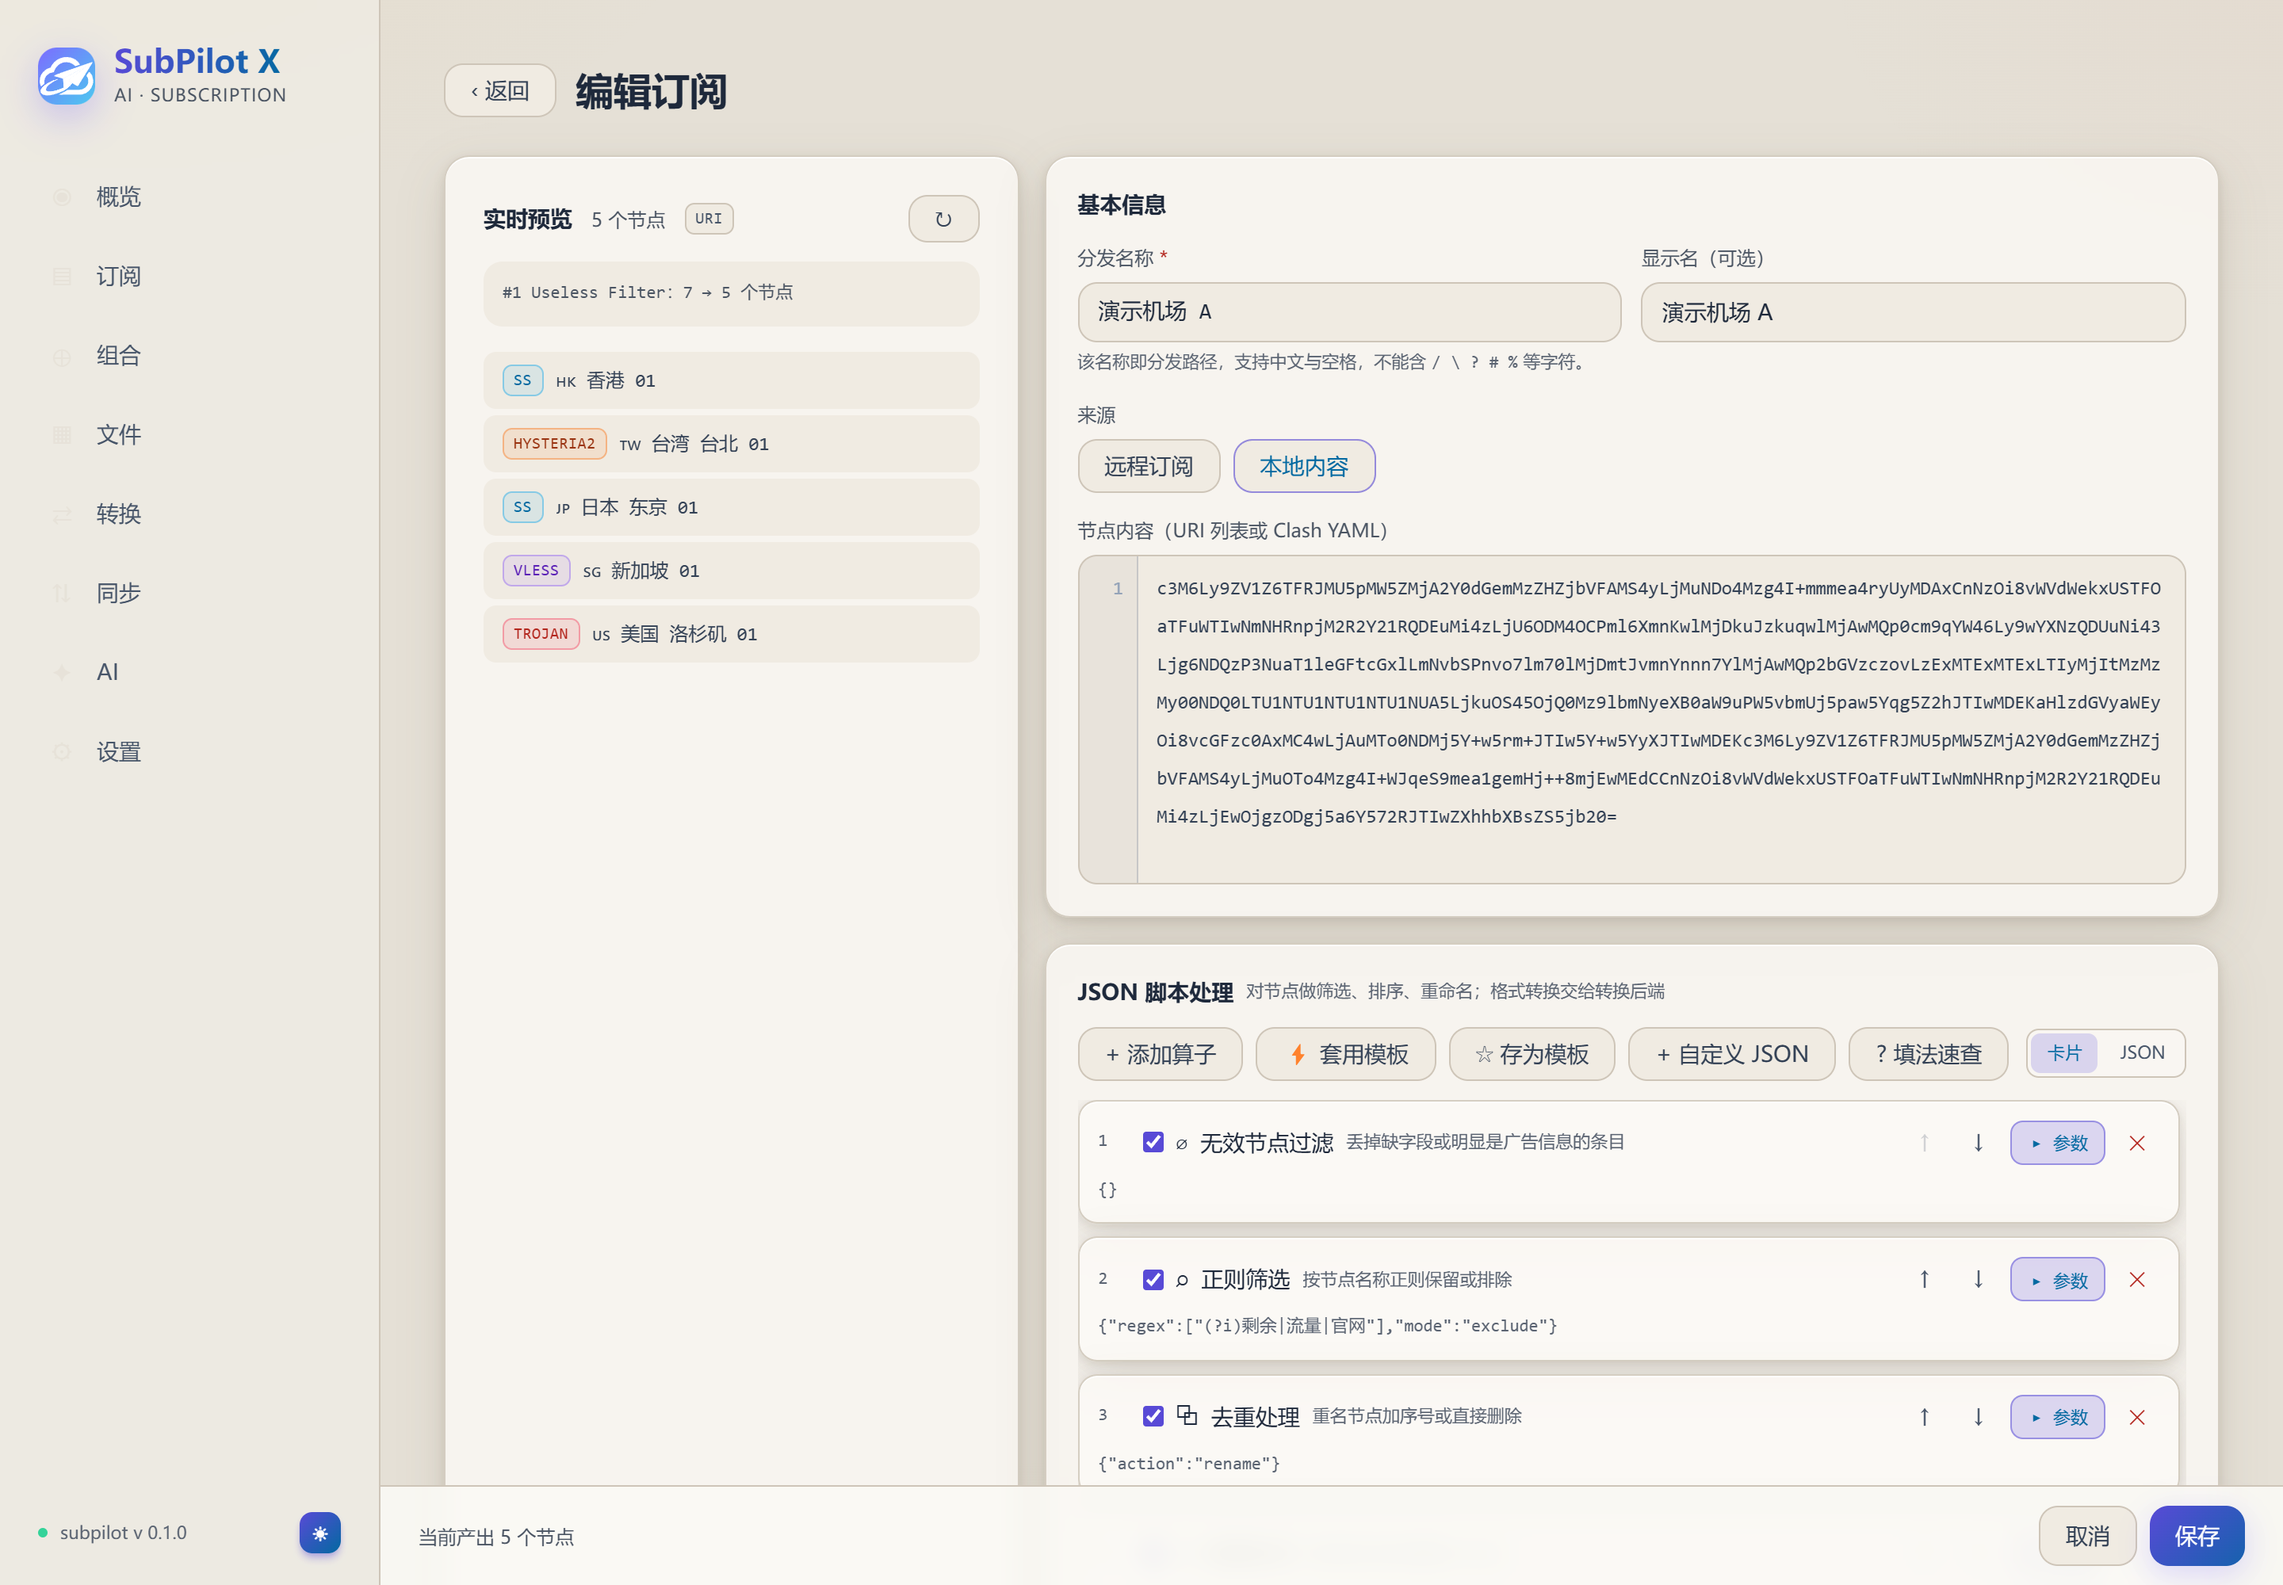
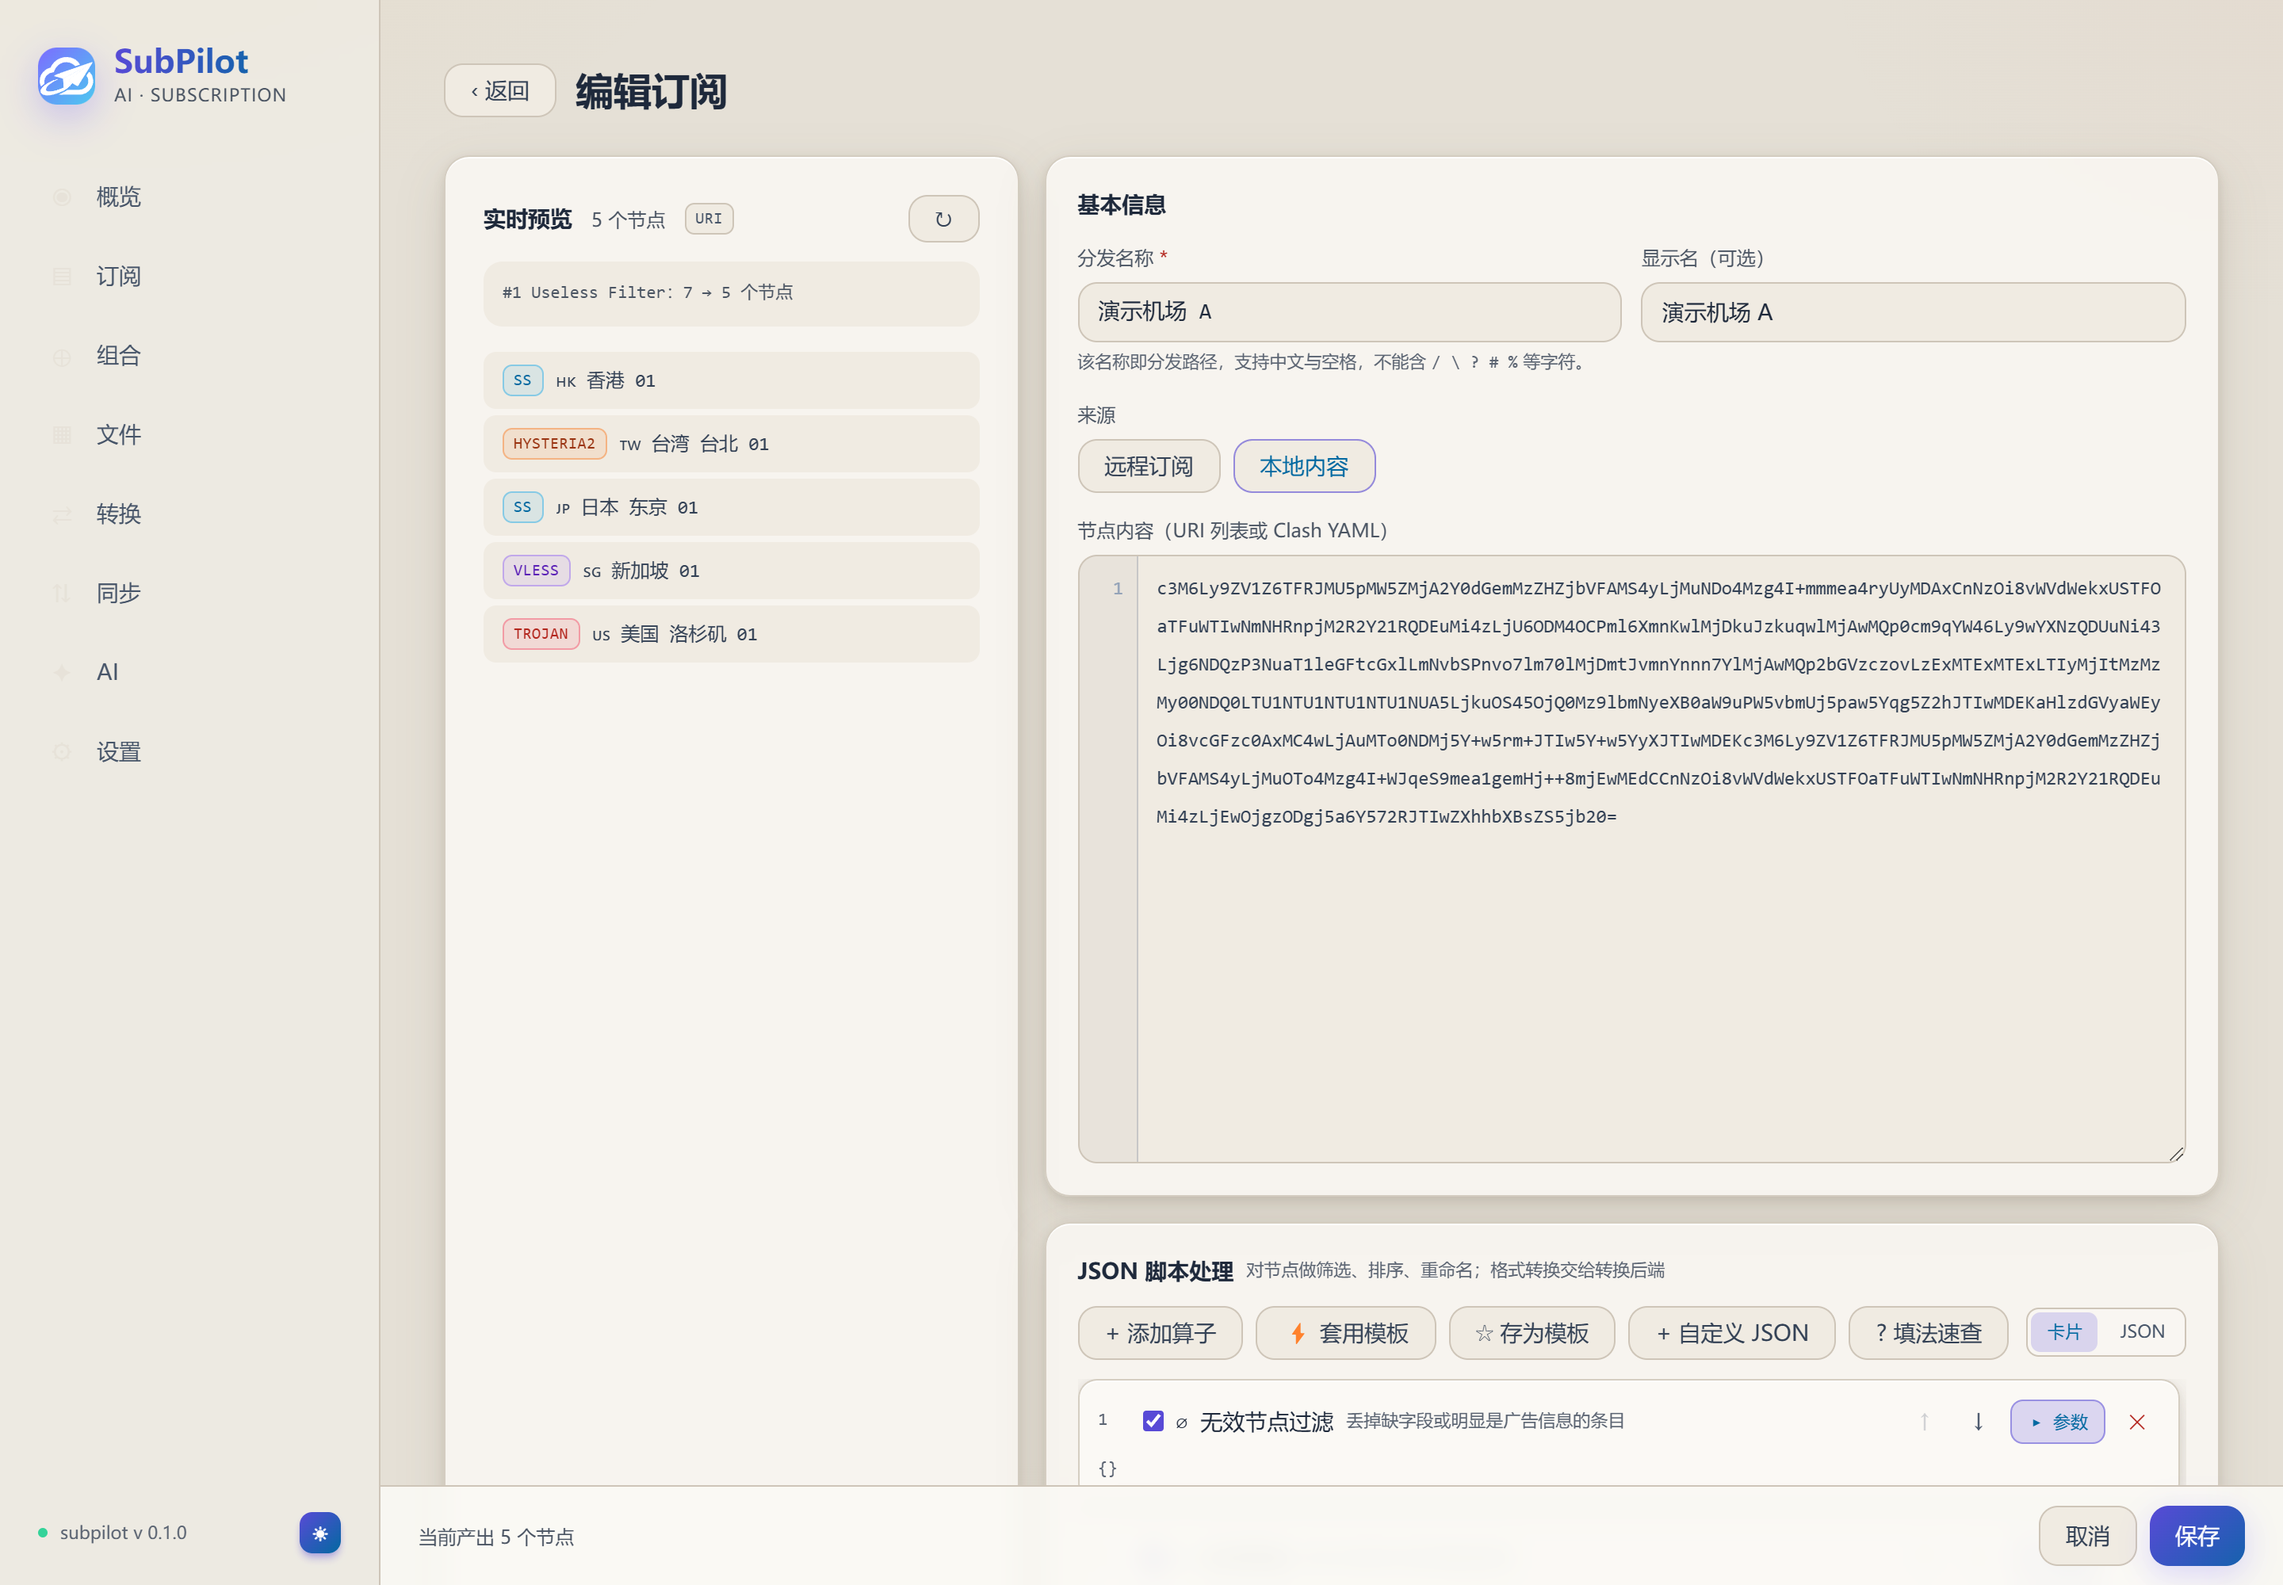
fix(web): 订阅编辑页的节点内容区块放大到 h-96，并恢复右下角拉伸
上一轮改「节点内容区块大小」时改偏了：只动了外层 grid 布局
（左列预览 flex-1、JSON 卡片 flex-1），节点内容编辑器本身没碰，
还漏掉了它一直缺的 resize。

- 节点内容：h-52（208px，约 8 行）→ h-96（384px，约 15 行）
- 订阅地址：高度不动（160px），只补 resize-y
- 两处都是 NodeContentEditor（CodeMirror 6），高度靠外部传的 Tailwind 类控制

拉伸能直接生效，是因为 .code-editor 早就有 overflow-hidden ——
浏览器只在 overflow 非 visible 的元素上画 resize 手柄，这个前提本来就满足，
所以不必改 CSS，在调用处补一个 resize-y 即可。拖出来的高度是 inline style，
优先级高于 Tailwind 的 h-96，不会被类名顶回去。

验证（.tmp-formats/verify-node-editor.mjs，11/11）：
- 高度 384px、computed resize=vertical、overflow=hidden
- 真拖了一次右下角：384px → 504px（不是只看 CSS 属性）
- 订阅地址编辑器同样可拉伸
- 填内容 → 预览解析出 1 个节点 → 保存落库 → 收尾清理
- 无控制台错误

回归：shots 14 张无控制台错误、verify-ui 108/0。shots 随之重新生成。

Changed region(s): [[0.4375, 0.558, 0.9688, 0.93]]

diff --git a/apps/web/src/views/SubEdit.vue b/apps/web/src/views/SubEdit.vue
@@ -82,18 +82,24 @@
                             <label class="text-xs text-slate-500">订阅地址（一行一个，可填多个）</label>
                             <NodeContentEditor
                                 v-model="form.url"
-                                class="mt-1.5 h-40"
+                                class="mt-1.5 h-40 resize-y"
                                 placeholder="https://example.com/api/v1/client/subscribe?token=xxx"
                             />
                             <label class="text-xs text-slate-500 block mt-3">下载 UA（可选）</label>
                             <input v-model="form.ua" class="input mt-1.5 font-mono !text-xs" placeholder="例如 clash-verge/v2.0" />
                         </div>
 
+                        <!-- 节点内容是这一页的主要输入物：几十上百行 URI / YAML 是常态，
+                             高度给到 h-96（384px，约 15 行），比原先的 h-52（8 行）翻倍。
+                             resize-y 让右下角可以拖 —— CodeMirror 的外壳是普通块级元素，
+                             加 resize 就能像 textarea 一样拉伸（外壳的 overflow 非 visible，
+                             满足浏览器显示手柄的前提）；拖出来的高度是 inline style，
+                             优先级高于 Tailwind 的 h-96，所以拖完不会被类名顶回去。 -->
                         <div v-else class="mt-3">
                             <label class="text-xs text-slate-500">节点内容（URI 列表或 Clash YAML）</label>
                             <NodeContentEditor
                                 v-model="form.content"
-                                class="mt-1.5 h-52"
+                                class="mt-1.5 h-96 resize-y"
                                 placeholder="ss://... 或&#10;proxies:&#10;  - name: xxx"
                             />
                         </div>
